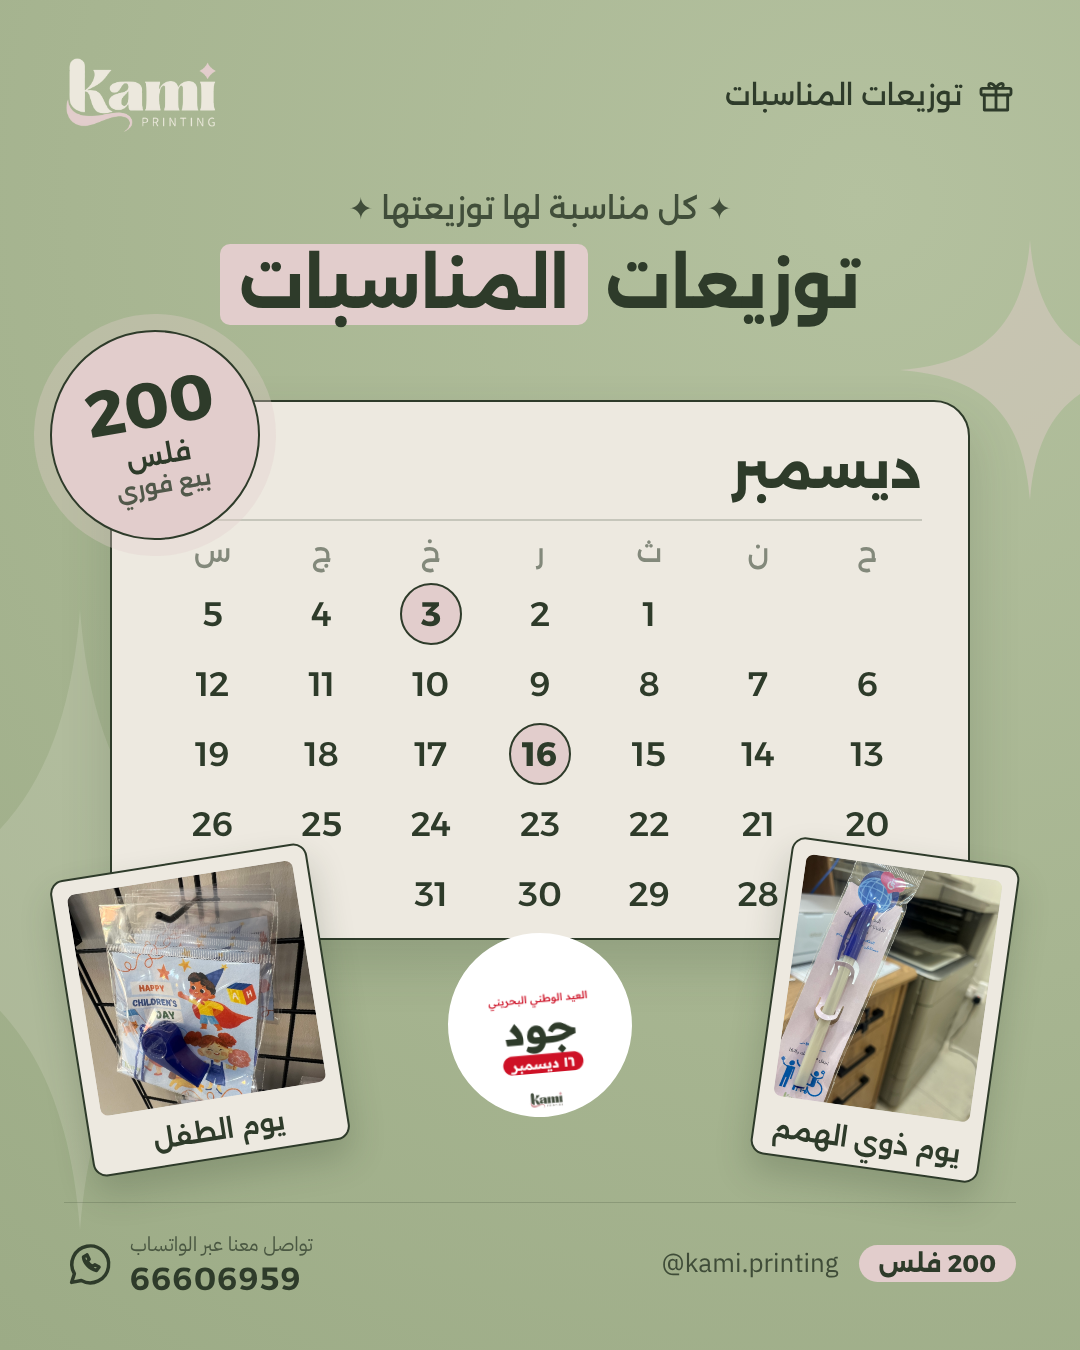
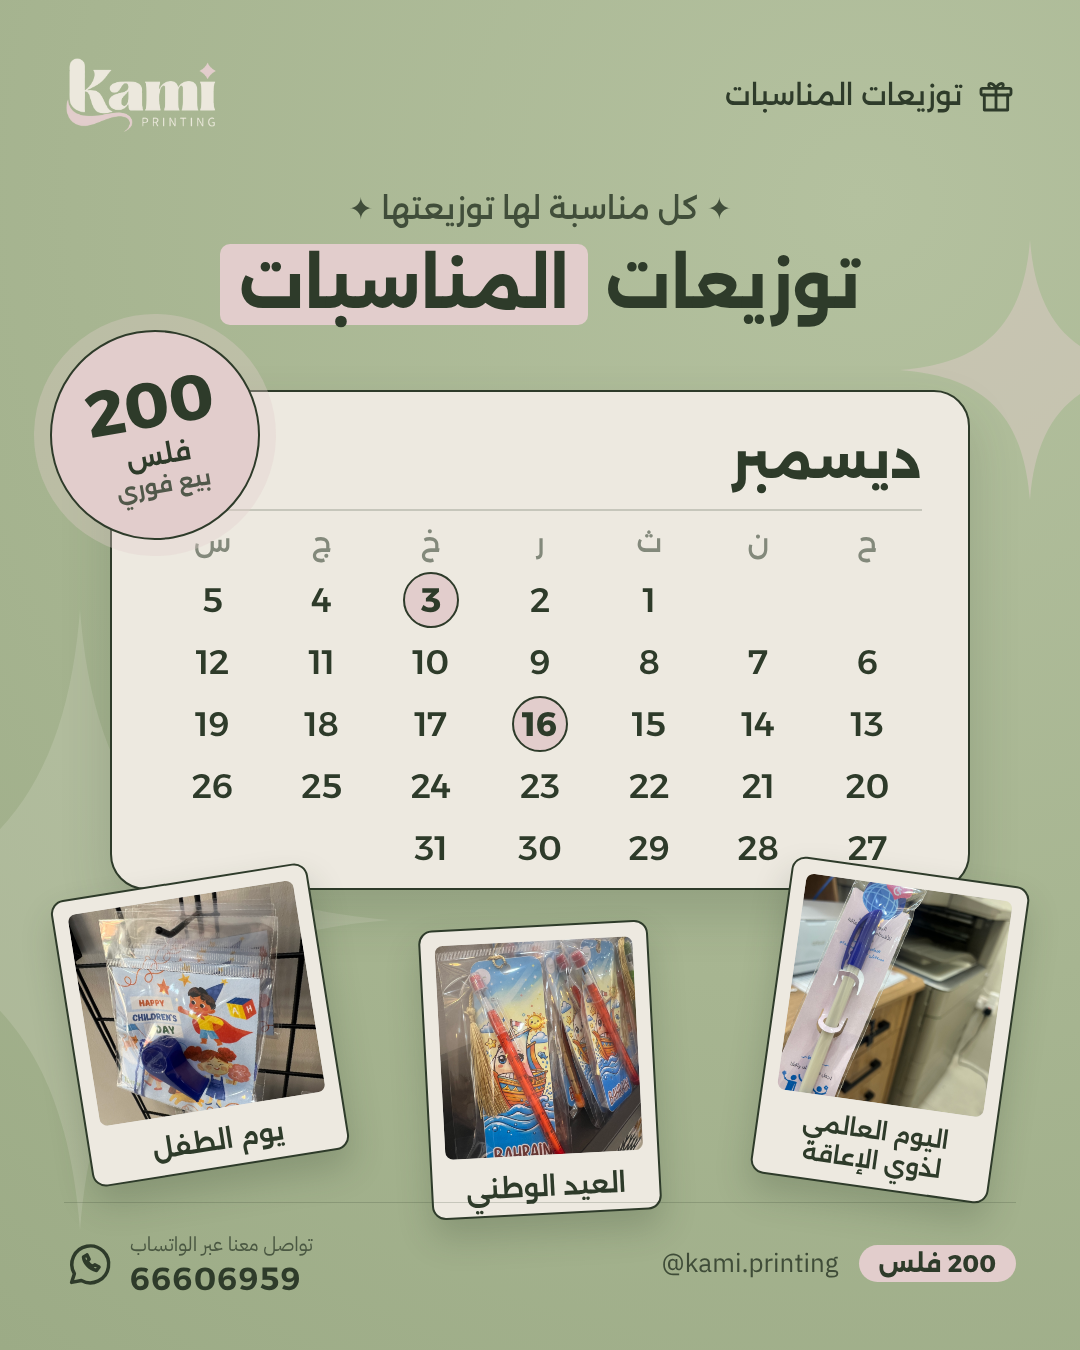
Occasions post: national day giveaway photo, rename disability day caption
Claude-Session: https://claude.ai/code/session_01EDga3Fd5srF93fsPAXnMfC

diff --git a/templates/giveaway-posts.html b/templates/giveaway-posts.html
@@ -61,7 +61,7 @@ h2{font-family:Alexandria;font-weight:700;font-size:66px;line-height:1.45;margin
   <header><img src="../brand/logo-en-cream.png"><div class="chip"><svg><use href="#gift"/></svg><span>توزيعات المناسبات</span></div></header>
   <div class="top"><div class="kicker">✦ كل مناسبة لها توزيعتها ✦</div><h2>توزيعات <span class="hl">المناسبات</span></h2></div>
 
-  <div style="position:absolute;top:400px;left:110px;right:110px;height:540px;background:var(--cream);border:2px solid var(--forest);border-radius:36px;padding:36px 46px;box-shadow:0 24px 50px rgba(46,59,42,.18)">
+  <div style="position:absolute;top:390px;left:110px;right:110px;height:500px;background:var(--cream);border:2px solid var(--forest);border-radius:36px;padding:36px 46px;box-shadow:0 24px 50px rgba(46,59,42,.18)">
     <div style="display:flex;justify-content:space-between;align-items:center;font-family:Alexandria">
       <div style="font-size:52px;font-weight:700">ديسمبر</div><div style="font-size:30px;font-weight:500;opacity:.6">2026</div>
     </div>
@@ -70,9 +70,9 @@ h2{font-family:Alexandria;font-weight:700;font-size:66px;line-height:1.45;margin
   </div>
   <div class="badge" style="top:330px;left:50px;transform:rotate(-10deg)"><b>200</b><span>فلس</span><span style="font-size:22px;opacity:.8;margin-top:0">بيع فوري</span></div>
 
-  <div class="pol" style="width:260px;height:300px;top:860px;left:70px;transform:rotate(-9deg);z-index:6"><div class="img" style="background-image:url(photos/giveaways/children-day.jpg);background-position:45% 52%"></div><div class="cap">يوم الطفل</div></div>
-  <div class="pol" style="width:230px;height:320px;top:850px;right:80px;transform:rotate(8deg);z-index:6"><div class="img" style="background-image:url(photos/giveaways/pen-disability.jpg);background-position:35% 40%"></div><div class="cap">يوم ذوي الهمم</div></div>
-  <img src="../brand/national-day/sticker.png" style="position:absolute;top:925px;left:440px;width:200px;transform:rotate(-5deg);clip-path:circle(46%);z-index:6;filter:drop-shadow(0 10px 14px rgba(0,0,0,.2))">
+  <div class="pol" style="width:260px;height:290px;top:880px;left:70px;transform:rotate(-9deg);z-index:6"><div class="img" style="background-image:url(photos/giveaways/children-day.jpg);background-position:45% 52%"></div><div class="cap">يوم الطفل</div></div>
+  <div class="pol" style="width:240px;height:320px;top:870px;right:70px;transform:rotate(8deg);z-index:6;padding-bottom:84px"><div class="img" style="background-image:url(photos/giveaways/pen-disability.jpg);background-position:35% 40%"></div><div class="cap" style="font-size:23px;line-height:1.3">اليوم العالمي<br>لذوي الإعاقة</div></div>
+  <div class="pol" style="width:230px;height:290px;top:925px;left:425px;transform:rotate(-3deg);z-index:7"><div class="img" style="background-image:url(photos/giveaways/national-day.jpg);background-position:38% 50%"></div><div class="cap">العيد الوطني</div></div>
 
   <footer><div class="fw"><svg class="fwi"><use href="#wa"/></svg><div><small>تواصل معنا عبر الواتساب</small><b>66606959</b></div></div>
   <div class="fr"><span class="h">@kami.printing</span><span class="cnt">200 فلس</span></div></footer>
@@ -83,6 +83,6 @@ const g=document.getElementById('grid');
 ['ح','ن','ث','ر','خ','ج','س'].forEach(d=>{const e=document.createElement('div');e.textContent=d;e.style.cssText='opacity:.55;font-size:28px;padding-bottom:6px';g.appendChild(e)});
 const f=new Date(2026,11,1).getDay();for(let i=0;i<f;i++)g.appendChild(document.createElement('div'));
 const mk={3:1,16:1};
-for(let d=1;d<=31;d++){const e=document.createElement('div');e.style.cssText='height:62px;display:flex;align-items:center;justify-content:center';
- e.innerHTML=mk[d]?`<span style="width:62px;height:62px;border-radius:50%;background:var(--blush);border:2px solid var(--forest);display:flex;align-items:center;justify-content:center;font-weight:700">${d}</span>`:d;g.appendChild(e)}
+for(let d=1;d<=31;d++){const e=document.createElement('div');e.style.cssText='height:54px;display:flex;align-items:center;justify-content:center';
+ e.innerHTML=mk[d]?`<span style="width:56px;height:56px;border-radius:50%;background:var(--blush);border:2px solid var(--forest);display:flex;align-items:center;justify-content:center;font-weight:700">${d}</span>`:d;g.appendChild(e)}
 </script></body></html>
